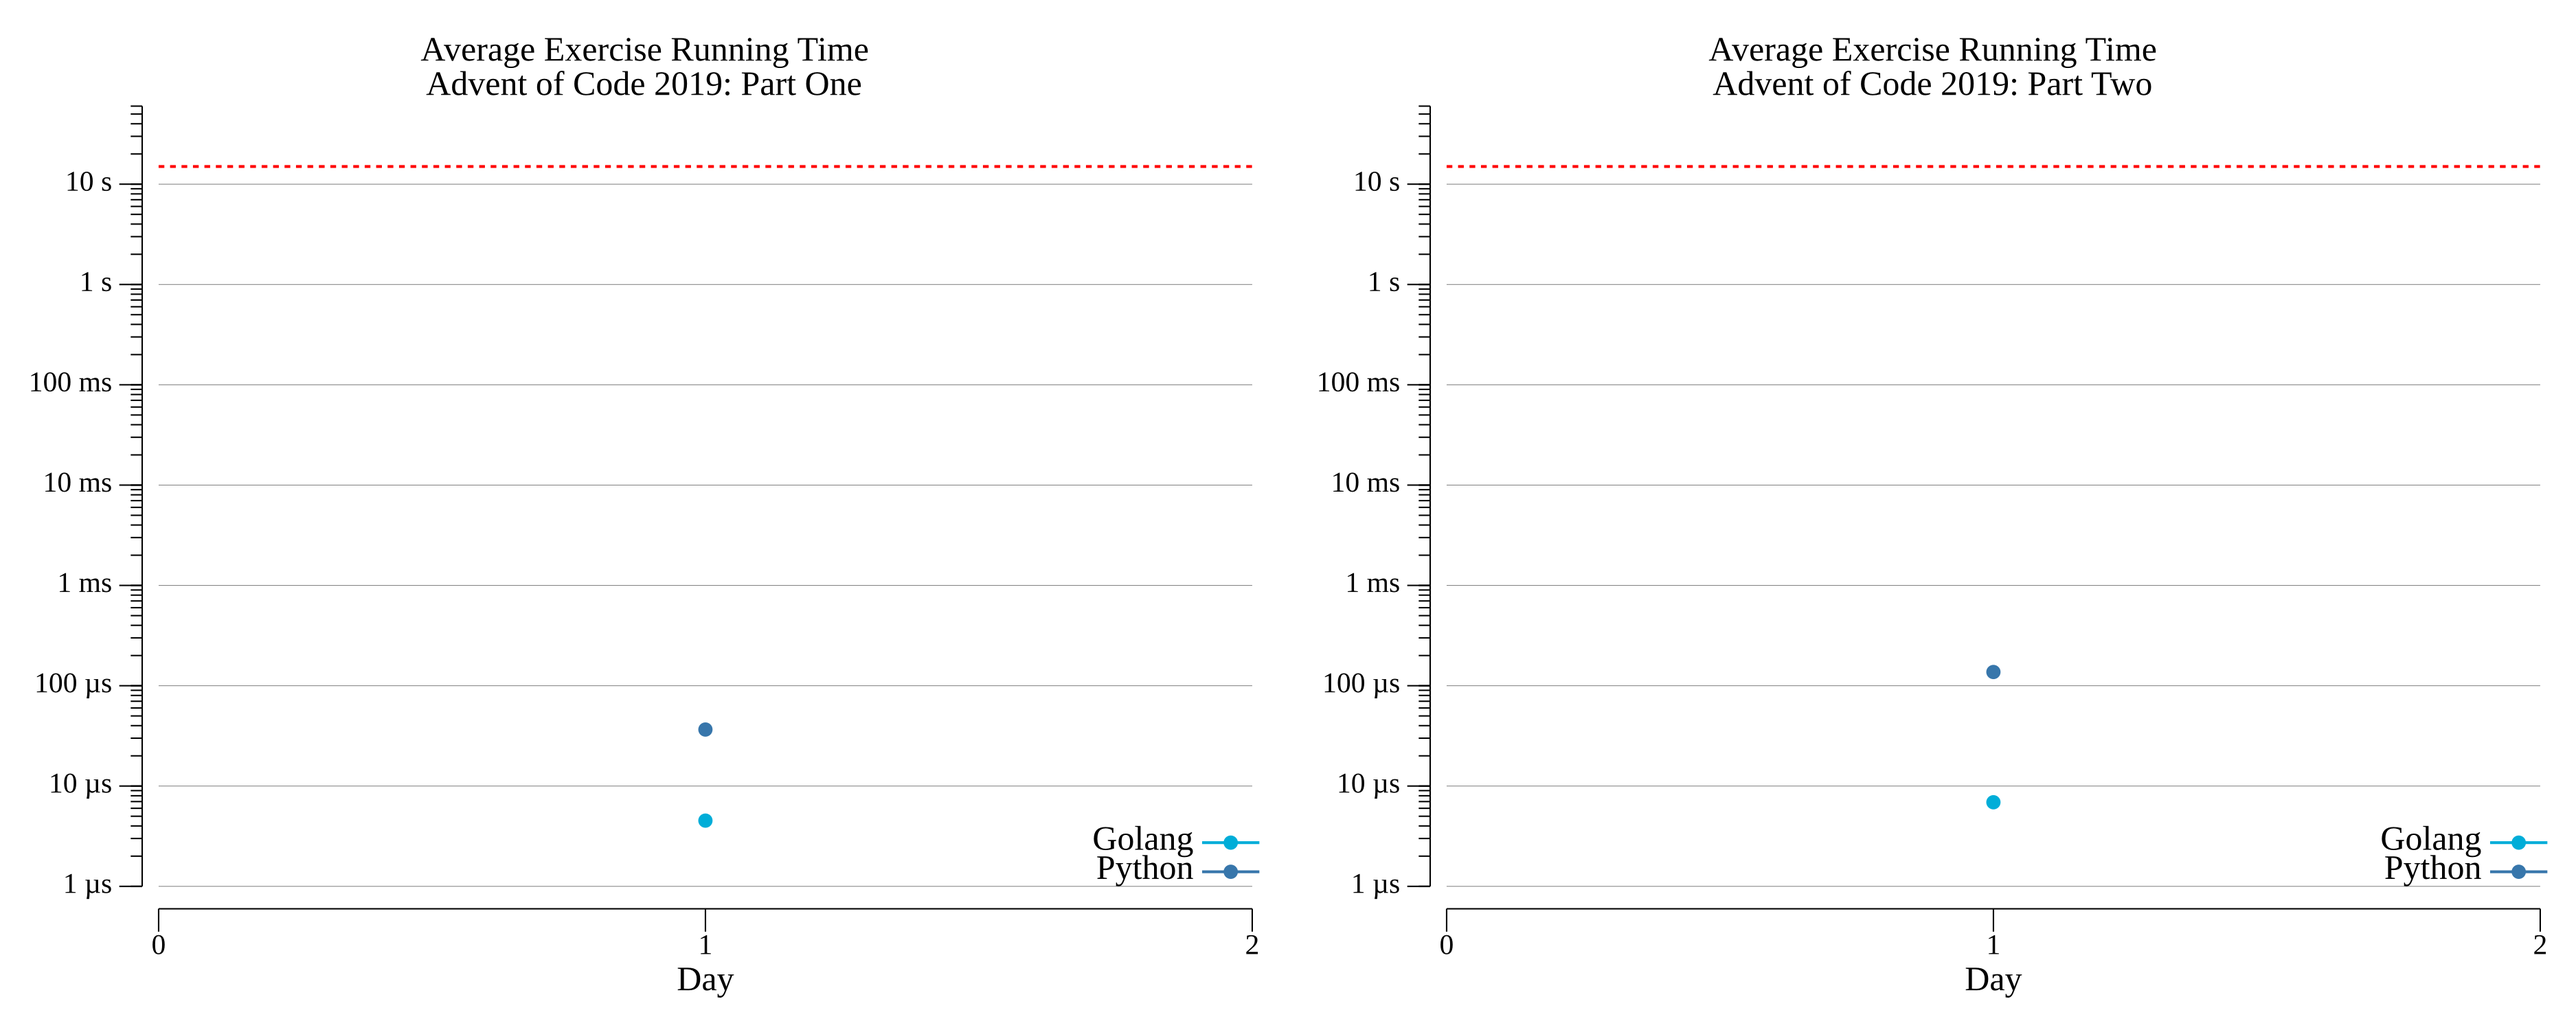
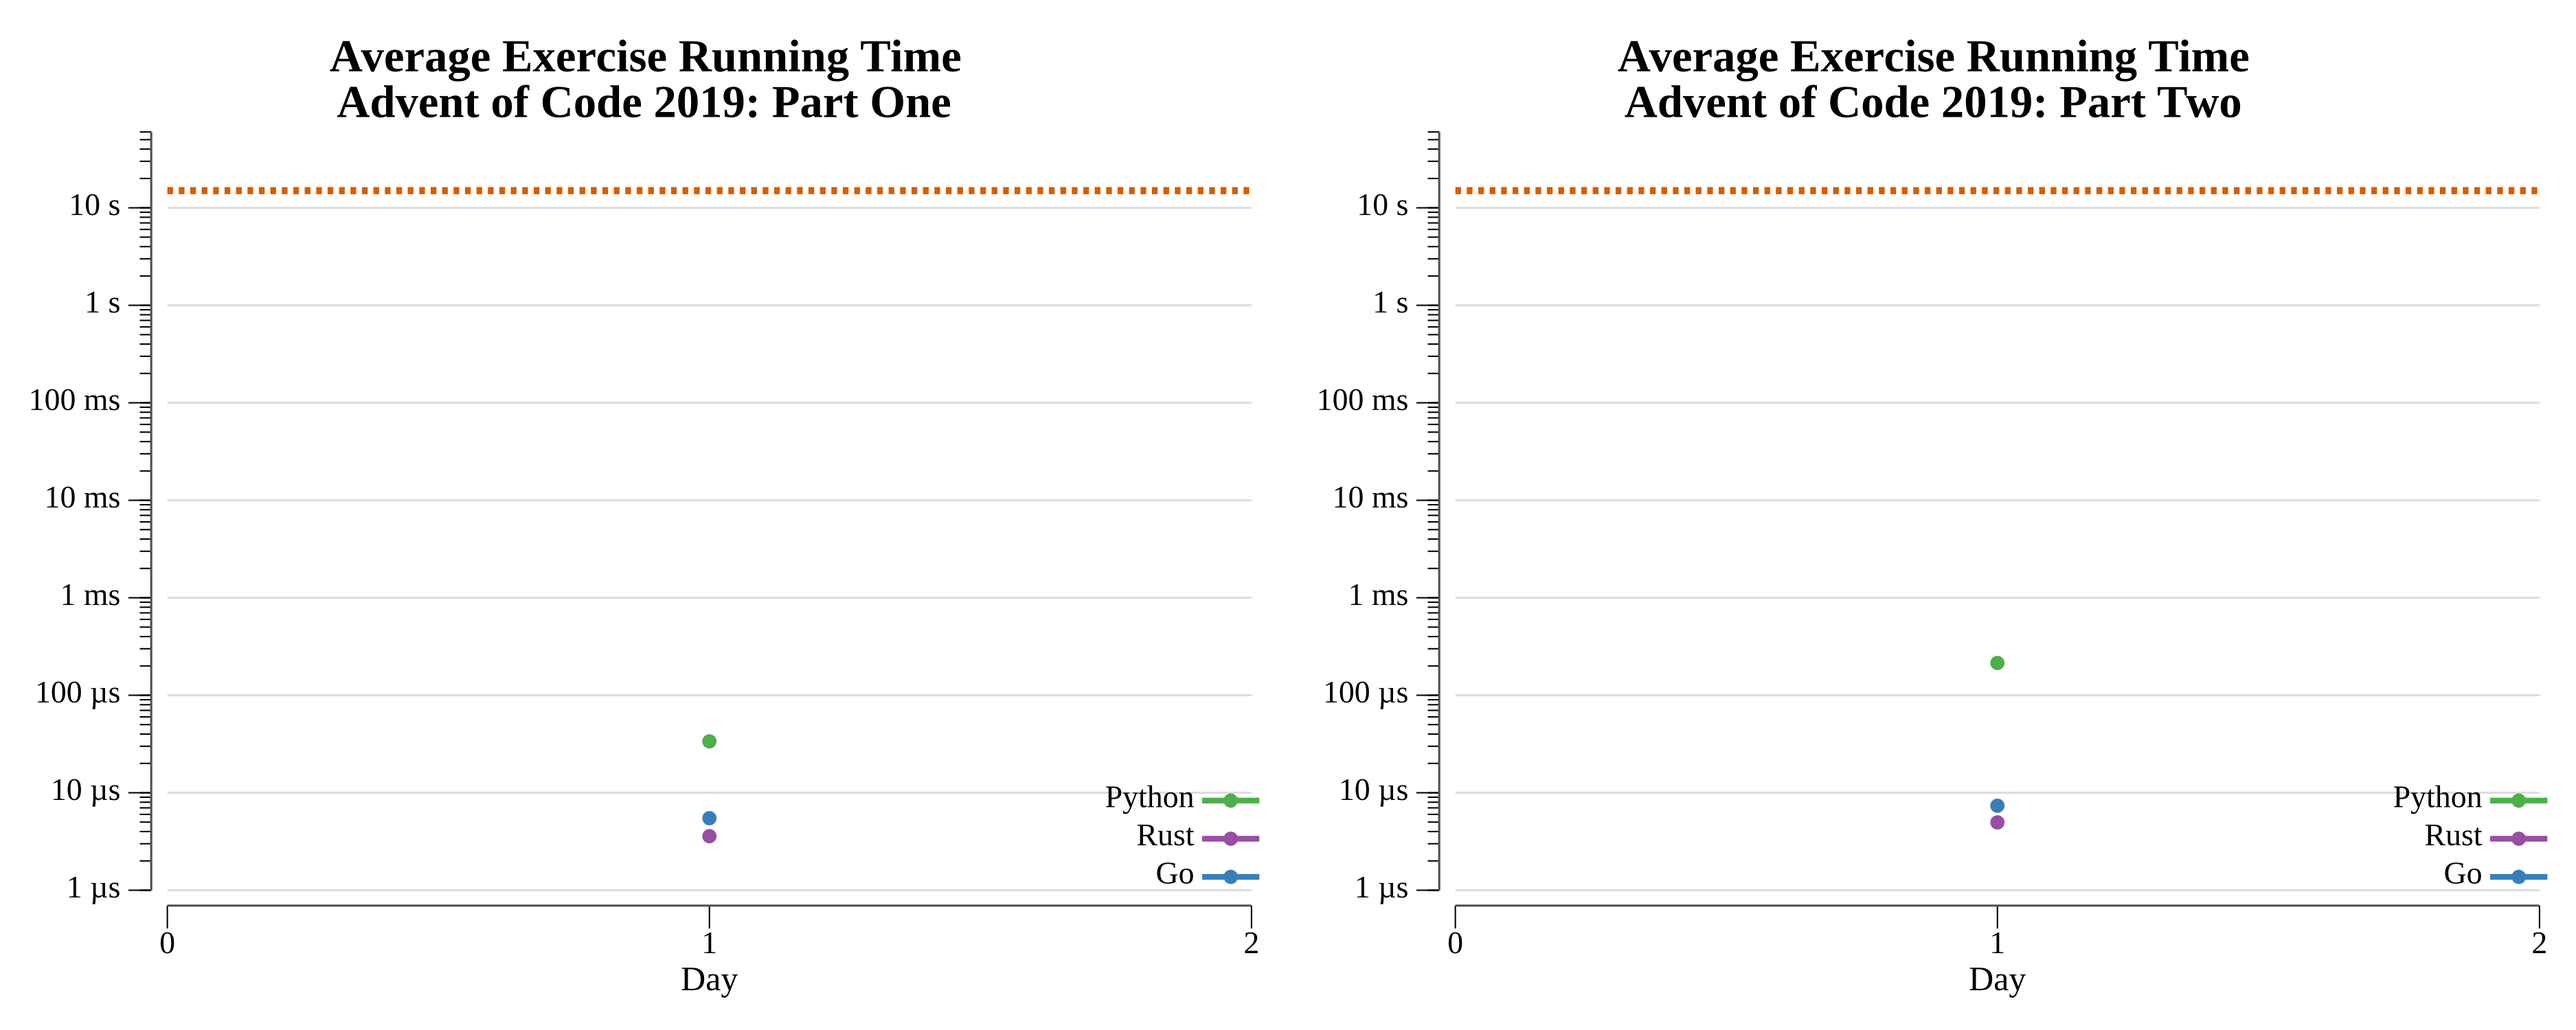
add rust and python to 2019 day 1

diff --git a/exercises/2019/01-theTyrannyOfTheRocketEquation/rs/src/solution.rs b/exercises/2019/01-theTyrannyOfTheRocketEquation/rs/src/solution.rs
@@ -1,0 +1,29 @@
+// Solution for Advent of Code 2019 day 1.
+//
+// Implement part_one and part_two. Each receives the puzzle input as a &str and
+// returns the answer as a String. elf's generated harness calls these and
+// handles the wire protocol, timing, and panic reporting — you only edit this
+// file.
+
+pub fn part_one(input: &str) -> String {
+    input
+        .lines()
+        .filter_map(|l| l.trim().parse::<i64>().ok())
+        .map(|m| m / 3 - 2)
+        .sum::<i64>()
+        .to_string()
+}
+
+pub fn part_two(input: &str) -> String {
+    input
+        .lines()
+        .filter_map(|l| l.trim().parse::<i64>().ok())
+        .map(fuel_cost)
+        .sum::<i64>()
+        .to_string()
+}
+
+fn fuel_cost(mass: i64) -> i64 {
+    let f = mass / 3 - 2;
+    if f <= 0 { 0 } else { f + fuel_cost(f) }
+}

diff --git a/exercises/2019/01-theTyrannyOfTheRocketEquation/go/exercise.go b/exercises/2019/01-theTyrannyOfTheRocketEquation/go/exercise.go
@@ -17,7 +17,7 @@ type Exercise struct {
 func (c Exercise) One(instr string) (any, error) {
 	sum := 0
 
-	for _, mass := range strings.Split(instr, "\n") {
+	for mass := range strings.SplitSeq(instr, "\n") {
 		m, err := strconv.Atoi(mass)
 		if err != nil {
 			return nil, err
@@ -34,7 +34,7 @@ func (c Exercise) One(instr string) (any, error) {
 func (c Exercise) Two(instr string) (any, error) {
 	sum := 0
 
-	for _, mass := range strings.Split(instr, "\n") {
+	for mass := range strings.SplitSeq(instr, "\n") {
 		m, err := strconv.Atoi(mass)
 		if err != nil {
 			return nil, err

diff --git a/exercises/2019/README.md b/exercises/2019/README.md
@@ -6,7 +6,7 @@
 
 | Exercise                                          | Stars | Solutions                  |
 |---------------------------------------------------|:-----:|----------------------------|
-| [Day 1: The Tyranny Of The Rocket Equation][rm_1] |  ★ ★  | [Go][go_1], [Python][py_1] |
+| [Day 1: The Tyranny Of The Rocket Equation][rm_1] |  ★ ★  | [Go][go_1], [Python][py_1], [Rust][rs_1] |
 | 2                                                 |  ☆ ☆  |                            |
 | 3                                                 |  ☆ ☆  |                            |
 | 4                                                 |  ☆ ☆  |                            |
@@ -48,3 +48,4 @@ Day       Time    Rank  Score       Time    Rank  Score
 [rm_1]: 01-theTyrannyOfTheRocketEquation/README.md
 [go_1]: 01-theTyrannyOfTheRocketEquation/go
 [py_1]: 01-theTyrannyOfTheRocketEquation/py
+[rs_1]: 01-theTyrannyOfTheRocketEquation/rs

diff --git a/exercises/2019/01-theTyrannyOfTheRocketEquation/README.md b/exercises/2019/01-theTyrannyOfTheRocketEquation/README.md
@@ -42,6 +42,31 @@ Part 1: 3437969 in 28.371811 µs
 Part 2: 5154075 in 139.474869 µs
 ```
 
+## Rust
+
+Each part folds over the parsed masses with iterator adapters. Part two uses a small recursive helper, `fuel_cost`, that accumulates the fuel-of-fuel chain until the result drops to zero or below.
+
+```text
+2019-1 The Tyranny Of The Rocket Equation (Rust)
+
+Testing (Rust)…
+1.0:  PASS             0.385µs
+1.1:  PASS             0.220µs
+1.2:  PASS             0.378µs
+1.3:  PASS             0.437µs
+1.4:  PASS             0.429µs
+2.0:  PASS             0.229µs
+2.1:  PASS             0.430µs
+2.2:  PASS             0.274µs
+2.3:  PASS             0.284µs
+
+Solving (Rust)…
+1.0:  PASS             5.361µs
+      3437969
+2.0:  PASS             4.863µs
+      5154075
+```
+
 ## 2019 Run Times
 
 ![2019 exercise run-time graphs](../run-times.png)
